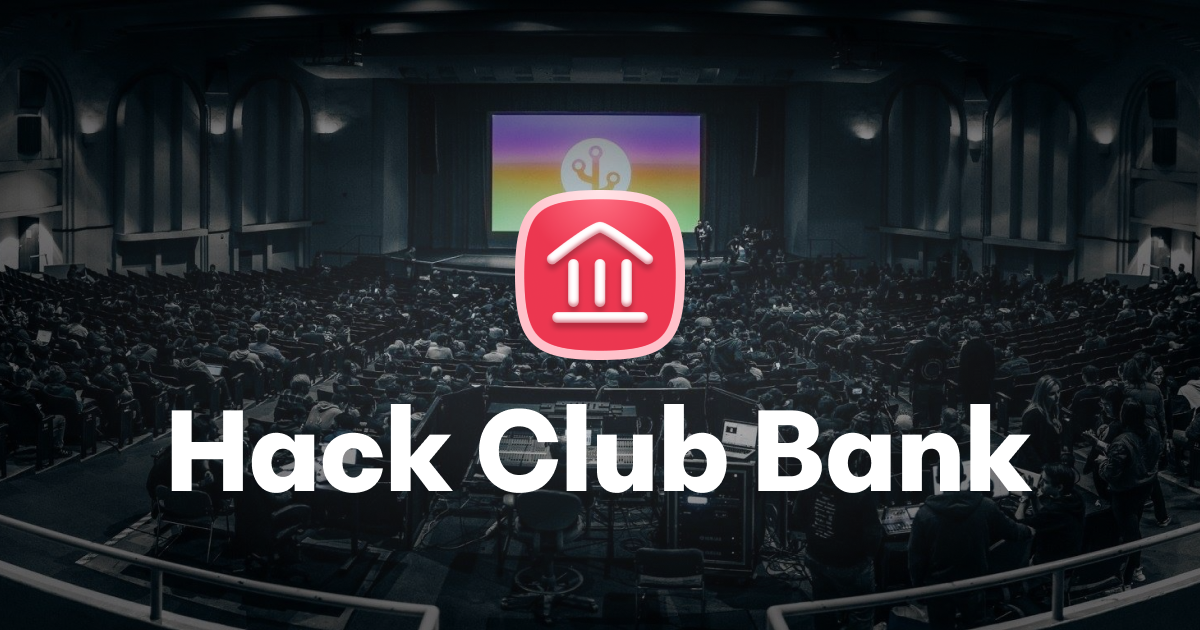
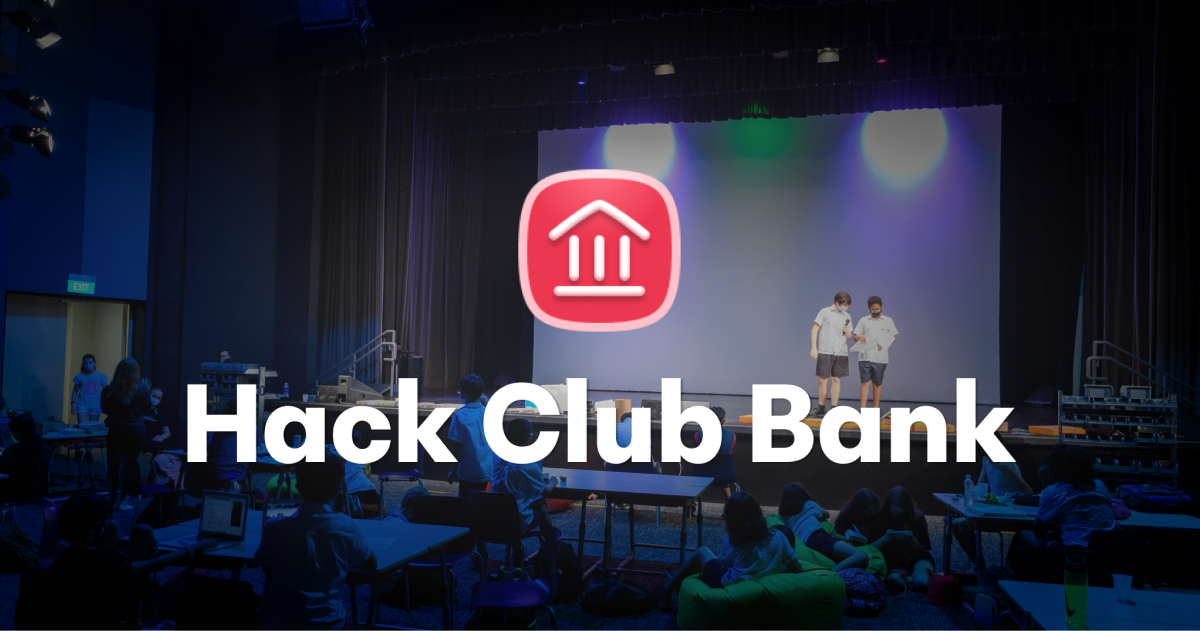
Bank page hero refresh (#441)
* Bank page hero refresh

* Experiment with darker image

* Rename images

* Better quality image

* Brighten Vignette filter

* Update og-image

* Remove random white line

* Use next/image

* Shorten meta description

* Blur image when loading

* Fix blur

* Update components/bank/landing.js

* Remove emoji

diff --git a/components/bank/landing.js b/components/bank/landing.js
@@ -1,6 +1,8 @@
 import { Box, Button, Heading, Link, Text, Container, Badge } from 'theme-ui'
 import Fade from 'react-reveal/Fade'
 import ScrollHint from './scroll-hint'
+import Image from 'next/image'
+import hero from '../../public/bank/bg.webp'
 
 export default function Landing({ showButton, eventsCount }) {
   return (
@@ -61,19 +63,19 @@ export default function Landing({ showButton, eventsCount }) {
                       }
                     }}
                   >
-                    The team behind{' '}
+                    The team behind the{' '}
                     <Link
-                      href="https://web.archive.org/web/20210204063213/https://hackaz.io/"
+                      href="https://innovationcircuit.com"
                       target="_blank"
                       color="inherit"
                       bold
                       hoverline
                     >
-                      Hack&nbsp;Arizona
+                      Innovation Circuit
                     </Link>{' '}
                     is one of {Math.round((eventsCount - 50) / 100) * 100}+
                     teams who use <strong>Hack&nbsp;Club&nbsp;Bank</strong> to
-                    run world-class hackathons.
+                    run world-class events.
                   </Text>
                 </Container>
               </Container>
@@ -110,7 +112,7 @@ export default function Landing({ showButton, eventsCount }) {
               fontWeight: 'normal'
             }}
           >
-            Tuscon, AZ
+            Singapore
           </Badge>
         </Box>
       </Slide>
@@ -141,7 +143,7 @@ function Slide({ children }) {
         flexDirection: 'column',
         justifyContent: 'end',
         width: '100vw',
-        background: 'url("/bank/bg.jpg")',
+        backgroundSize: 'cover',
         backgroundColor: '#000000',
         boxShadow: 'inset 0 0 4rem 1rem rgba(0, 0, 0, 0.5)',
         backgroundPosition: 'center',
@@ -151,6 +153,14 @@ function Slide({ children }) {
         position: 'relative'
       }}
     >
+      <Image
+        src={hero}
+        layout="fill"
+        objectFit="cover"
+        alt="Dark room with a stage and students sitting below"
+        placeholder="blur"
+        priority
+      />
       {children}
     </Box>
   )
@@ -161,7 +171,7 @@ function Vignette() {
     <Box
       style={{
         backgroundImage:
-          'linear-gradient(to bottom,rgba(0, 0, 0, 0),rgba(0, 0, 0, 0.25) 25%,rgba(0, 0, 0, 0.625) 50%, rgba(0, 0, 0, 0.75) 100%)',
+          'linear-gradient(to bottom,rgba(0, 0, 0, 0),rgba(0, 0, 0, 0.25) 25%,rgba(0, 0, 0, 0.6) 50%, rgba(0, 0, 0, 0.7) 100%)',
         height: '100vh',
         left: '0',
         right: '0',

diff --git a/pages/bank/[type].js b/pages/bank/[type].js
@@ -31,7 +31,7 @@ export default function Bank({ isPartner, stats }) {
         <Meta
           as={Head}
           title="Bank"
-          description="Hack Club Bank provides a 501(c)(3) status-backed fund optimized for high school hackathons including invoicing, debit cards, check sending, pre-written legal forms, automated tax filing, and transparent finances. Get fiscal sponsorship designed to help you run a great organization."
+          description="Hack Club Bank provides a 501(c)(3) status-backed fund optimized for high school hackathons, nonprofits, and clubs. Get fiscal sponsorship designed to help you run a great organization."
           image="/bank/og-image.png"
         />
         <style>{styles}</style>

diff --git a/components/bank/features.js b/components/bank/features.js
@@ -118,7 +118,7 @@ export default function Features({ partner = false }) {
             <Module
               icon="google"
               name="Google Workspace"
-              body="Get instant, free accounts for your team (like sam@innovationcircuit.co)."
+              body="Get instant, free accounts for your team (like sam@innovationcircuit.com)."
             />
           )}
           <Module
